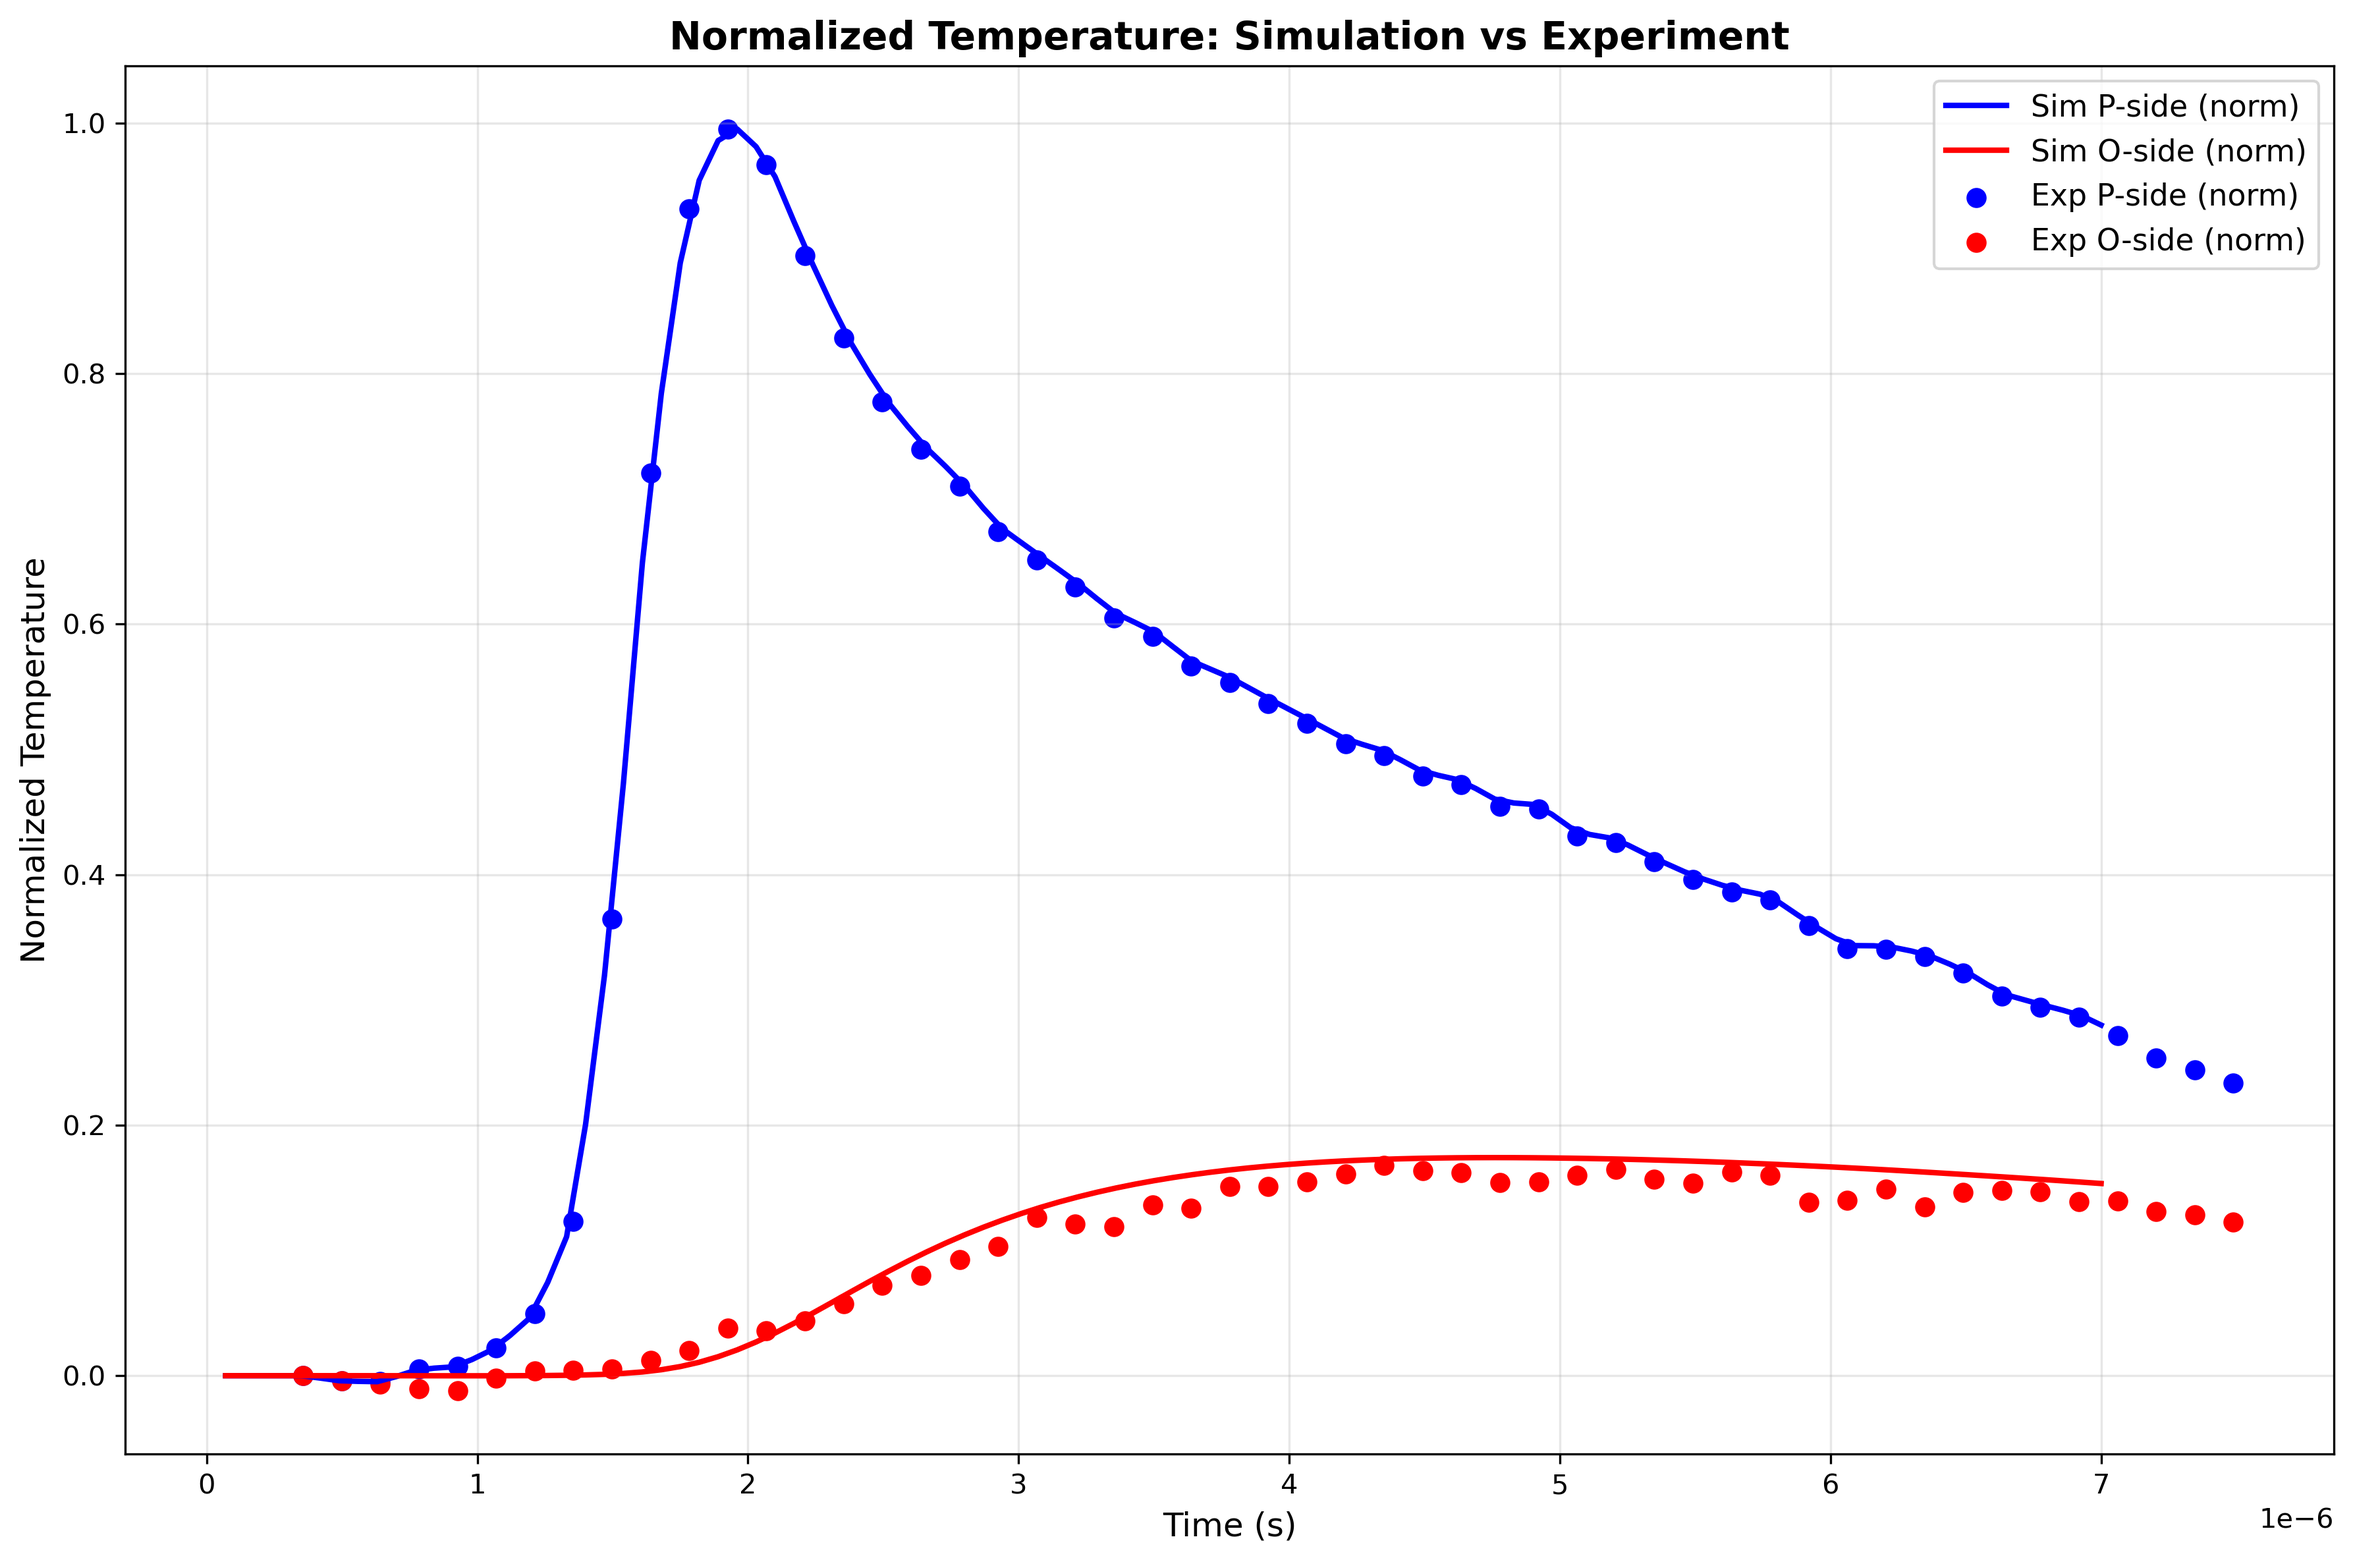
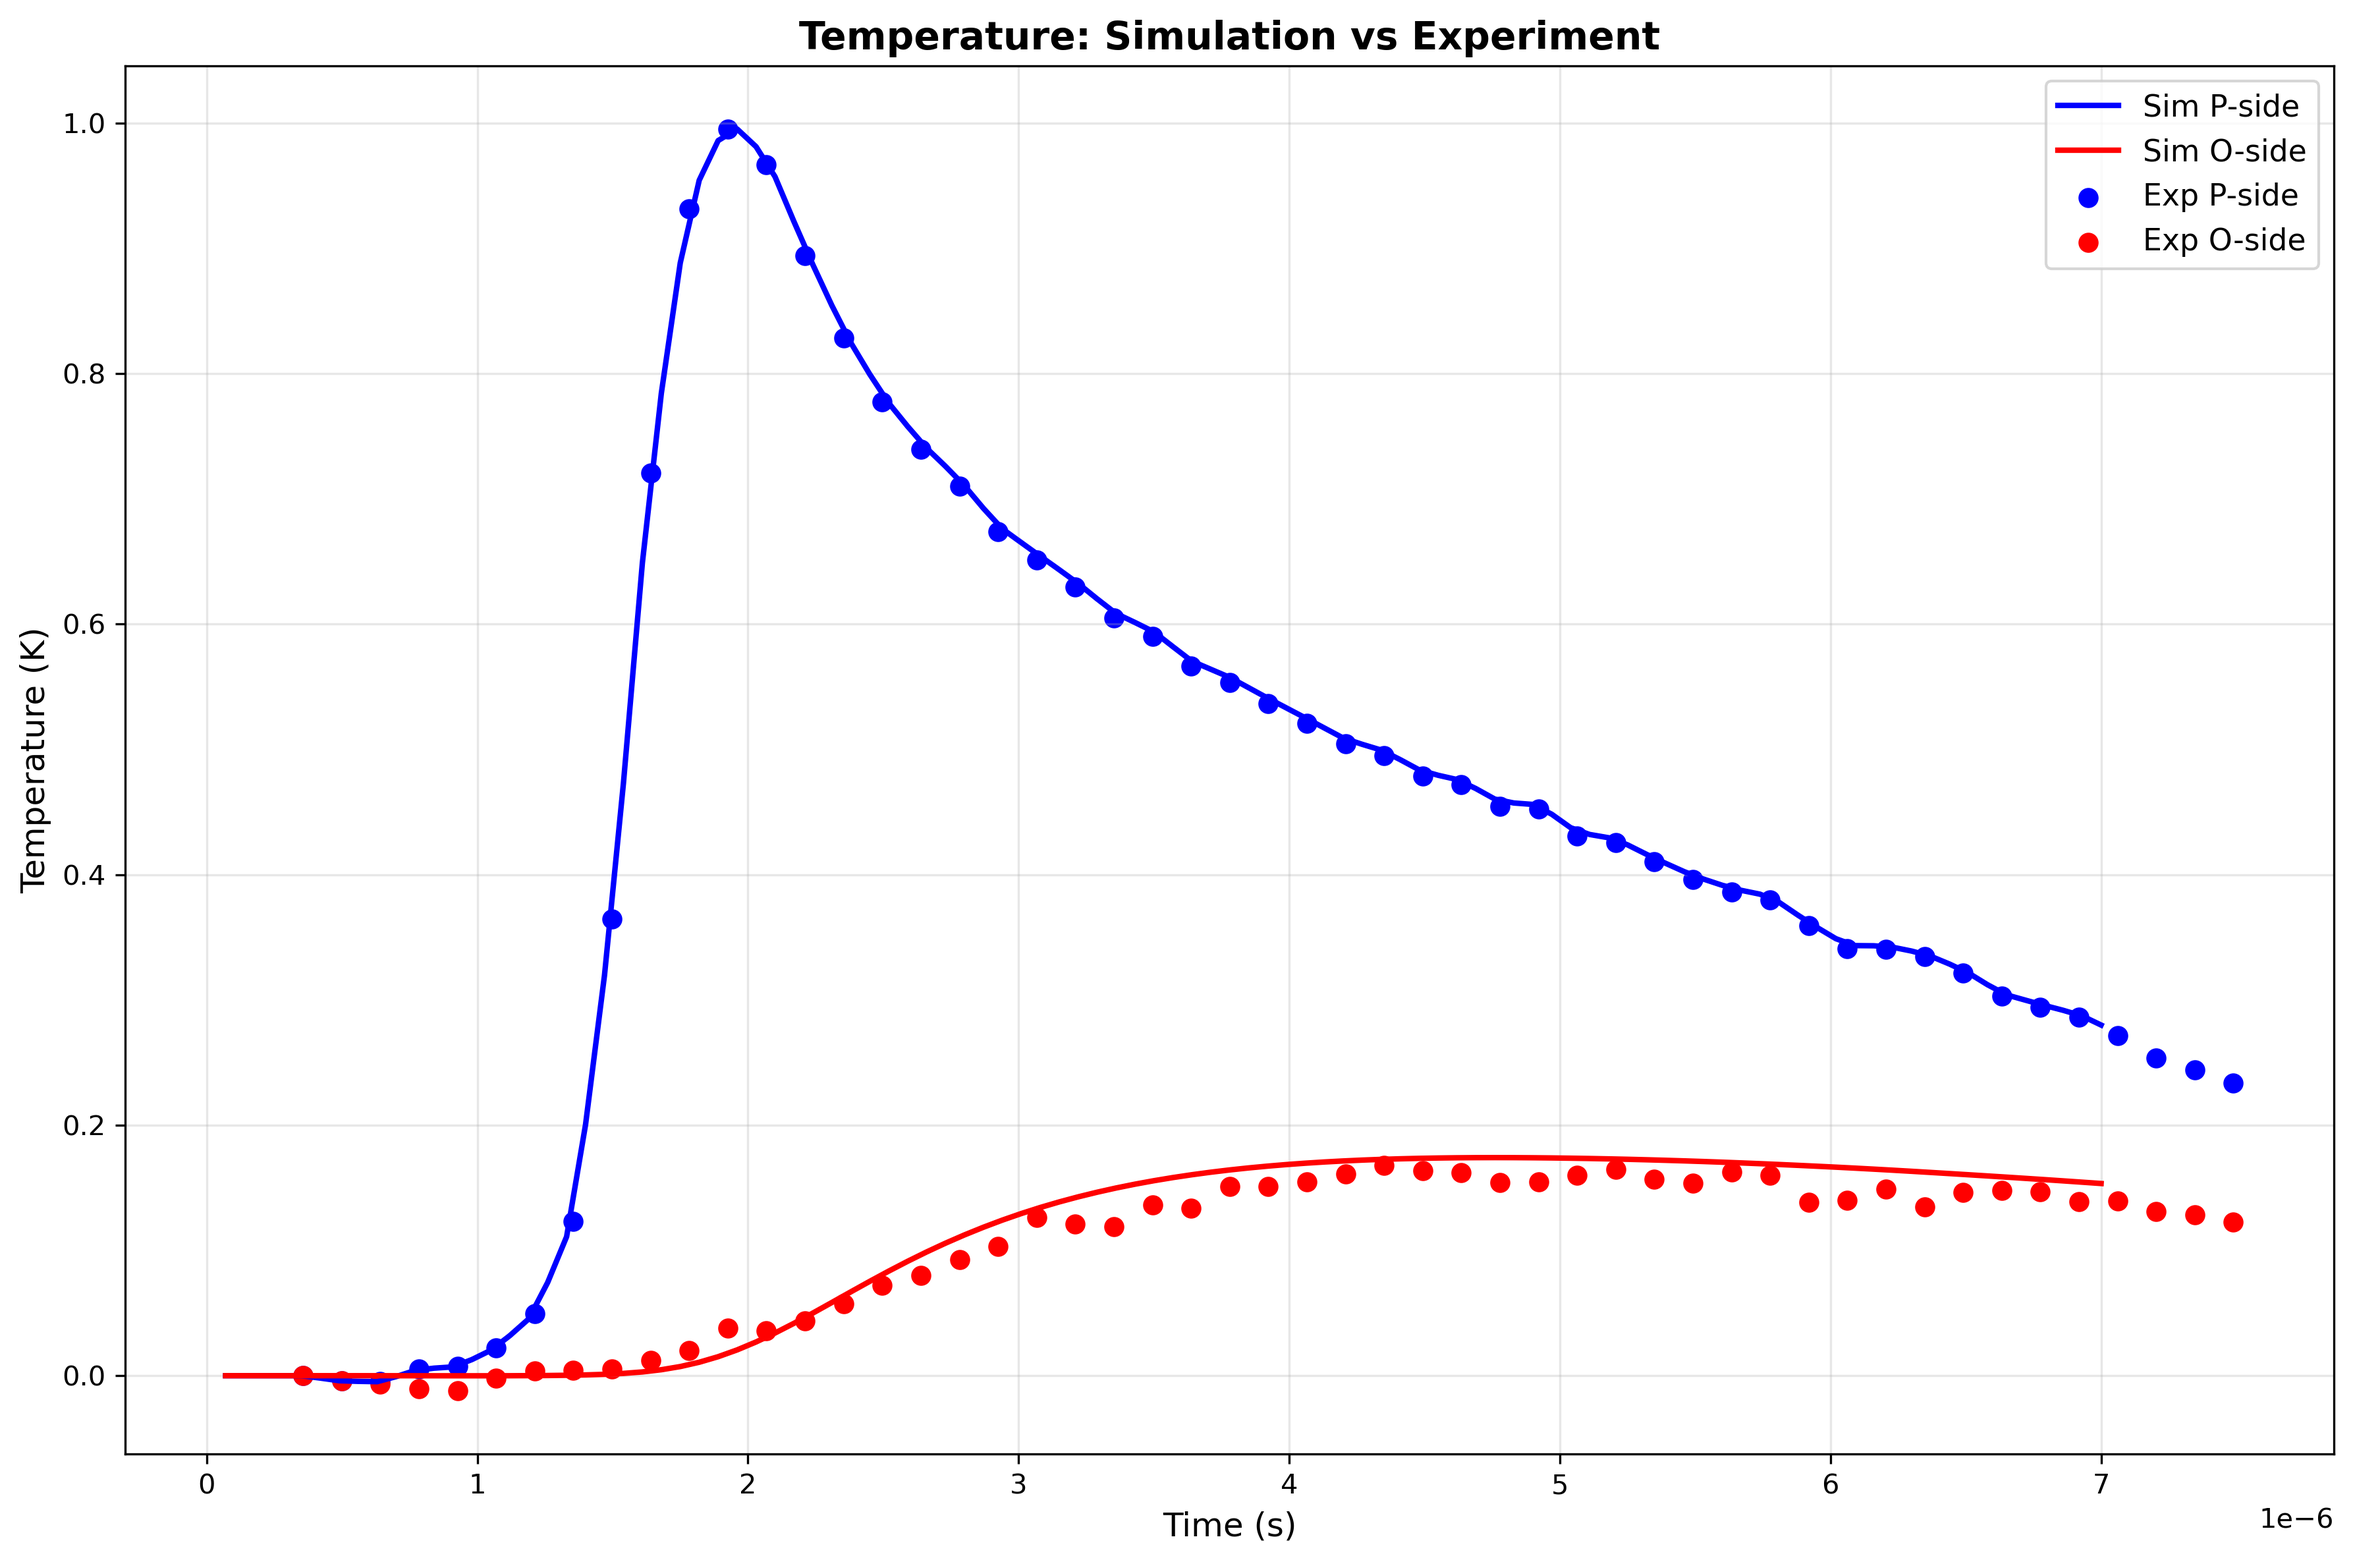
final commit for 6-23

Changed region(s): [[0.808, 0.0624, 0.9944, 0.1873], [0.2797, 0.0, 0.7769, 0.0312], [0.0, 0.3745, 0.0311, 0.6242]]

diff --git a/new_test.py b/new_test.py
@@ -1,14 +1,13 @@
 import run_with_diamond as run
 import yaml
 import os
-import matplotlib.pyplot as plt
 import pandas as pd
 import numpy as np
+import analysis_utils as au
 
 # Load the configuration
 with open('simulation_template.yaml', 'r') as f:
     cfg = yaml.safe_load(f)
-
 
 # Extract parameters from config
 r_sample = float(cfg['mats']['p_sample']['r'])
@@ -48,59 +47,52 @@ run.run_simulation(
 
 print("Simulation completed! Check outputs/test1/ for results.")
 
-# Plot the normalized temperature curves
-def plot_normalized_temperature_curves():
-    """Plot normalized temperature curves for pside and oside watcher points."""
-    
-    # Load simulation watcher data
-    watcher_csv_path = 'outputs/test1/watcher_points.csv'
-    if not os.path.exists(watcher_csv_path):
-        print(f"Warning: Watcher data file not found at {watcher_csv_path}")
-        return
+# Load simulation watcher data
+watcher_csv_path = 'outputs/test1/watcher_points.csv'
+if not os.path.exists(watcher_csv_path):
+    print(f"Warning: Watcher data file not found at {watcher_csv_path}")
+else:
     df_sim = pd.read_csv(watcher_csv_path)
-
-    # Normalize simulation data to simulated pside
-    sim_pside_min = df_sim['pside'].min()
-    sim_pside_max = df_sim['pside'].max()
-    df_sim['pside_normed'] = (df_sim['pside'] - df_sim['pside'].iloc[0]) / (sim_pside_max - sim_pside_min)
-    df_sim['oside_normed'] = (df_sim['oside'] - df_sim['oside'].iloc[0]) / (sim_pside_max - sim_pside_min)
-
+    
     # Load experimental data
     df_exp = pd.read_csv('experimental_data/heat_data.csv')
-    df_exp['time'] = df_exp['time']
-    exp_pside_min = df_exp['temp'].min()
-    exp_pside_max = df_exp['temp'].max()
-
-    # Downshift experimental oside to start from ic_temp
+    
+    # Normalize simulation data
+    sim_pside_normed = (df_sim['pside'] - df_sim['pside'].iloc[0]) / (df_sim['pside'].max() - df_sim['pside'].min())
+    sim_oside_normed = (df_sim['oside'] - df_sim['oside'].iloc[0]) / (df_sim['pside'].max() - df_sim['pside'].min())
+    
+    # Normalize experimental data
+    exp_pside_normed = (df_exp['temp'] - df_exp['temp'].iloc[0]) / (df_exp['temp'].max() - df_exp['temp'].min())
+    
+    # Downshift experimental oside to start from ic_temp and normalize
     ic_temp = cfg['heating']['ic_temp']
     oside_initial = df_exp['oside'].iloc[0]
-    df_exp['oside'] = df_exp['oside'] - oside_initial + ic_temp
-
-    df_exp['pside_normed'] = (df_exp['temp'] - df_exp['temp'].iloc[0]) / (exp_pside_max - exp_pside_min)
-    df_exp['oside_normed'] = (df_exp['oside'] - df_exp['oside'].iloc[0]) / (exp_pside_max - exp_pside_min)
-
-    # Plot
-    plt.figure(figsize=(12, 8))
-    # Simulated curves
-    plt.plot(df_sim['time'], df_sim['pside_normed'], 'b-', linewidth=2, label='Sim P-side (norm)')
-    plt.plot(df_sim['time'], df_sim['oside_normed'], 'r-', linewidth=2, label='Sim O-side (norm)')
-    # Experimental points
-    plt.scatter(df_exp['time'], df_exp['pside_normed'], color='blue', marker='o', s=40, label='Exp P-side (norm)')
-    plt.scatter(df_exp['time'], df_exp['oside_normed'], color='red', marker='o', s=40, label='Exp O-side (norm)')
-
-    plt.xlabel('Time (s)', fontsize=12)
-    plt.ylabel('Normalized Temperature', fontsize=12)
-    plt.title('Normalized Temperature: Simulation vs Experiment', fontsize=14, fontweight='bold')
-    plt.grid(True, alpha=0.3)
-    plt.legend(fontsize=11)
-    plt.tight_layout()
-    plot_path = 'outputs/test1/temperature_curves.png'
-    plt.savefig(plot_path, dpi=300, bbox_inches='tight')
-    print(f"Temperature curves plot saved to: {plot_path}")
-    plt.show()
-
-# Generate the plot
-plot_normalized_temperature_curves()
+    exp_oside_shifted = df_exp['oside'] - oside_initial + ic_temp
+    exp_oside_normed = (exp_oside_shifted - exp_oside_shifted.iloc[0]) / (df_exp['temp'].max() - df_exp['temp'].min())
+    
+    # Plot normalized temperature curves using analysis_utils
+    au.plot_temperature_curves(
+        sim_time=df_sim['time'],
+        sim_pside=sim_pside_normed,
+        sim_oside=sim_oside_normed,
+        exp_pside=exp_pside_normed,
+        exp_oside=exp_oside_normed,
+        exp_time=df_exp['time'],
+        save_path='outputs/test1/temperature_curves.png',
+        show_plot=True
+    )
+    
+    # Calculate RMSE for oside data
+    oside_rmse = au.calculate_rmse(
+        exp_time=df_exp['time'],
+        exp_data=exp_oside_normed,
+        sim_time=df_sim['time'],
+        sim_data=sim_oside_normed
+    )
+    
+    print(f"\n--- RMSE Analysis ---")
+    print(f"O-side RMSE: {oside_rmse:.4f}")
+    print("-------------------\n")
 
 
 

diff --git a/analysis_utils.py b/analysis_utils.py
@@ -1,0 +1,93 @@
+import matplotlib.pyplot as plt
+import pandas as pd
+import numpy as np
+
+
+def plot_temperature_curves(sim_time, sim_pside, sim_oside, exp_pside, exp_oside, 
+                          exp_time=None, save_path=None, show_plot=True):
+    """
+    Plot temperature curves comparing simulation and experimental data.
+    
+    Parameters:
+    -----------
+    sim_time : pd.Series
+        Simulation time data
+    sim_pside : pd.Series
+        Simulation pside temperature data
+    sim_oside : pd.Series
+        Simulation oside temperature data
+    exp_pside : pd.Series
+        Experimental pside temperature data
+    exp_oside : pd.Series
+        Experimental oside temperature data
+    exp_time : pd.Series, optional
+        Experimental time data. If None, will use the same time points as exp_pside/exp_oside
+    save_path : str, optional
+        Path to save the plot. If None, plot is not saved
+    show_plot : bool, default True
+        Whether to display the plot
+    """
+    
+    # Create the plot
+    plt.figure(figsize=(12, 8))
+    
+    # Plot simulation curves
+    plt.plot(sim_time, sim_pside, 'b-', linewidth=2, label='Sim P-side')
+    plt.plot(sim_time, sim_oside, 'r-', linewidth=2, label='Sim O-side')
+    
+    # Plot experimental points
+    if exp_time is not None:
+        plt.scatter(exp_time, exp_pside, color='blue', marker='o', s=40, label='Exp P-side')
+        plt.scatter(exp_time, exp_oside, color='red', marker='o', s=40, label='Exp O-side')
+    else:
+        # If no separate exp_time, assume exp_pside and exp_oside have the same time index
+        plt.scatter(exp_pside.index, exp_pside, color='blue', marker='o', s=40, label='Exp P-side')
+        plt.scatter(exp_oside.index, exp_oside, color='red', marker='o', s=40, label='Exp O-side')
+    
+    plt.xlabel('Time (s)', fontsize=12)
+    plt.ylabel('Temperature (K)', fontsize=12)
+    plt.title('Temperature: Simulation vs Experiment', fontsize=14, fontweight='bold')
+    plt.grid(True, alpha=0.3)
+    plt.legend(fontsize=11)
+    plt.tight_layout()
+    
+    # Save plot if path provided
+    if save_path:
+        plt.savefig(save_path, dpi=300, bbox_inches='tight')
+        print(f"Temperature curves plot saved to: {save_path}")
+    
+    # Show plot if requested
+    if show_plot:
+        plt.show()
+    else:
+        plt.close()
+
+
+def calculate_rmse(exp_time, exp_data, sim_time, sim_data):
+    """
+    Calculate RMSE between experimental and simulation data at experimental time points.
+    
+    Parameters:
+    -----------
+    exp_time : pd.Series or array-like
+        Experimental time points
+    exp_data : pd.Series or array-like
+        Experimental data values
+    sim_time : pd.Series or array-like
+        Simulation time points
+    sim_data : pd.Series or array-like
+        Simulation data values
+    
+    Returns:
+    --------
+    float
+        RMSE value between the two datasets
+    """
+    
+    # Interpolate simulation data at experimental time points
+    sim_data_at_exp_times = np.interp(exp_time, sim_time, sim_data)
+    
+    # Calculate RMSE
+    rmse = np.sqrt(np.mean((sim_data_at_exp_times - exp_data)**2))
+    
+    return rmse
